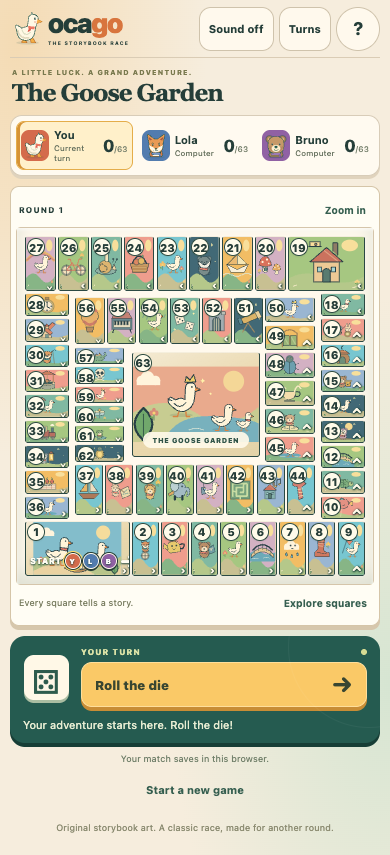
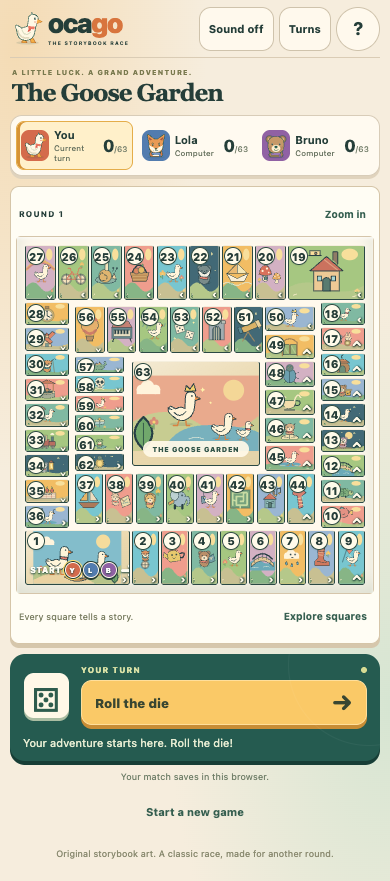
Give the four small mobile controls a 44x44px thumb target (#5)
At 320x740 and 360x800 the secondary controls shrank with the compact layout:
'?' 36x40, Zoom 51x32, Explore squares 91x32, Start a new game 122x36 — all under
the 44x44 minimum, so a thumb could miss and hit the board or a neighbouring action.

Raise the mobile min-heights to 44px in the existing <=650px and <=360px blocks of
src/style.css (the compact overrides were the cause; the base .text-button rule is
already 44px). Labels, hierarchy and the roll primary are unchanged: at 320x740 the
roll button stays fully visible at y=605-650 and the roll remains the largest target.

scripts/qa-browser.cjs now measures #help, #zoom, #legend and #restart at 320 and 360
and fails if any is under 44x44 or larger than the roll primary. Measured after the
fix: 44x44 / 51x44 / 91x44 / 122x44 at both widths.

Closes #5

diff --git a/src/style.css b/src/style.css
@@ -2,8 +2,8 @@
 *{box-sizing:border-box}body{margin:0;background:radial-gradient(ellipse at 4% 5%,#f4dbb4,transparent 36%),radial-gradient(ellipse at 100% 80%,#d6e5d2,transparent 40%),#f6eddd}button,input{font:inherit}button{cursor:pointer}button,a{-webkit-tap-highlight-color:transparent}button:focus-visible,a:focus-visible,input:focus-visible{outline:3px solid #d45b38;outline-offset:3px}button:disabled{cursor:default}h1,h2,p{margin-top:0}.topbar,main,footer{max-width:1130px;margin:auto}.topbar{height:82px;display:flex;align-items:center;justify-content:space-between;border-bottom:1px solid #daccb5}.brand{display:flex;align-items:center;gap:7px;text-decoration:none;color:var(--ink);font:850 33px/.9 ui-rounded,system-ui,sans-serif;letter-spacing:-1.5px}.brand img{width:47px;height:52px}.brand b{color:#d8753e}.brand small{display:block;font:750 6px/1.2 system-ui;letter-spacing:1.6px;margin-top:7px}.header-actions{display:flex;align-items:center;gap:9px}.utility-button,.icon-button{border:1px solid #cfc3ac;background:var(--cream);color:var(--ink);border-radius:12px;min-height:44px;padding:8px 13px;font-size:12px;font-weight:750}.icon-button{width:44px;border-radius:50%;padding:0;font-size:19px}.text-button{border:0;background:none;color:#365f50;font-size:12px;font-weight:750;min-height:44px;padding:9px 12px}.title-row{display:flex;justify-content:space-between;align-items:center;padding:23px 0 18px}.eyebrow{font-size:9px;font-weight:800;letter-spacing:1.7px;color:#79794e;margin-bottom:7px}h1{font-family:Georgia,'Times New Roman',serif;font-size:35px;font-weight:650;letter-spacing:-1px;margin:0}.local-label{font-size:12px;color:#6a7666}.players-card{border:1px solid #d8ccb8;background:#fffaf0;border-radius:16px;padding:9px;margin-bottom:18px;box-shadow:0 3px 0 #e0d3bd}#players{display:flex;gap:9px}.player{flex:1;min-width:0;display:flex;align-items:center;gap:10px;padding:9px 12px;border-radius:11px;border:1px solid transparent}.player.active{background:#fff0ca;border-color:#e4ad4a;box-shadow:inset 3px 0 #d69335}.avatar{display:grid;place-items:center;width:42px;height:42px;flex-shrink:0;border-radius:13px}.avatar img{width:100%;height:100%;object-fit:contain}.p0{background:#d46b4c}.p1{background:#527caf}.p2{background:#9061a4}.player-info{min-width:0;flex:1}.player-info strong{display:block;font-size:14px}.player-info small{display:block;font-size:10px;color:#66715e;margin-top:3px}.player>b{font-size:22px;font-weight:800;white-space:nowrap}.player>b small{font-size:10px;color:#77816d;font-weight:500}.game-layout{display:grid;grid-template-columns:minmax(0,1fr) 275px;gap:22px;align-items:start}.board-card{background:#fffdf4;border:1px solid #d5c5a8;border-radius:14px;padding:11px;box-shadow:0 6px 0 #d6c7ac,0 12px 30px #43341915}.board-top{display:flex;align-items:center;justify-content:space-between;gap:8px;padding:0 6px;font-size:9px;font-weight:800;letter-spacing:1px}.route-hint{color:#8a8269;font-size:8px;letter-spacing:.5px}.board-top .text-button{font-size:11px;padding:4px 5px}.board-viewport{overflow:auto;border-radius:5px;overscroll-behavior:contain;background:#fff9e9;scrollbar-color:#c9aa73 #f7ebd4}.board{width:100%;aspect-ratio:1;position:relative;isolation:isolate;background:#fff9ed;border:1px solid #d5c5aa}.board-viewport.zoomed .board{width:160%;max-width:none}.cell{position:absolute;cursor:pointer;border-radius:4px;overflow:hidden;border:1.6px solid #2b4944;background:#ead8ad;isolation:isolate}.tile-illustration{position:absolute;inset:0;pointer-events:none}.tile-illustration svg{width:100%;height:100%;display:block}.number{position:absolute;top:3px;left:3px;min-width:24px;height:24px;padding:1px 4px;display:grid;place-items:center;background:#fffbea;color:#263d38;border:1px solid #314e44;border-radius:50%;font-size:15px;font-weight:850;line-height:1;z-index:2;box-shadow:0 1px 2px #243f3626}.route-arrow{position:absolute;bottom:0;right:4px;font:800 16px/1 system-ui;color:#fff9e8;text-shadow:0 1px 2px #173b33,1px 0 2px #173b33;pointer-events:none;z-index:1}.cell:focus-visible{outline:4px solid #f9b63e;outline-offset:0;z-index:6}.cell.occupied{outline:2px solid #fff8dc;outline-offset:-3px}.tokens{position:absolute;bottom:3px;left:2px;right:2px;display:flex;justify-content:center;align-items:flex-end;gap:1px;z-index:5;pointer-events:none}.token{width:25px;height:25px;border-radius:50%;display:inline-grid;place-items:center;flex-shrink:0;border:2px solid #fff9eb;color:#fff;font-size:11px;font-weight:900;box-shadow:0 2px 0 #263e36,0 0 0 1px #263e36}.current-token{outline:2px solid #ffdb68;outline-offset:2px}.start-dock{position:absolute;bottom:5px;left:6px;right:5px;display:flex;align-items:center;gap:5px;color:#fffdf2;text-shadow:0 1px 2px #23493e;font-size:12px;font-weight:900;letter-spacing:1px;z-index:6}.start-arrow{margin-left:auto;font-size:25px}.start-cell .tokens{left:auto;right:3px;bottom:36px}.start-dock .token{width:23px;height:23px}#start-tokens{display:flex;gap:3px;min-height:23px}.finish-label{position:absolute;left:8%;right:8%;bottom:7%;border-radius:30px;background:#fff9e8ed;color:#315448;padding:7px 3px;text-align:center;font-size:10px;font-weight:900;letter-spacing:1px}.board-bottom{display:flex;align-items:center;justify-content:space-between;gap:6px;padding:0 6px;color:#7a7e62;font-size:10px}.board-bottom .text-button{font-size:11px}aside{display:flex;flex-direction:column;gap:12px}.turn-card{padding:22px;border-radius:20px;background:#255b50;color:#fff9e7;box-shadow:0 5px 0 #173e36;position:relative;overflow:hidden}.turn-card:before{content:'';position:absolute;width:160px;height:160px;right:-70px;top:-70px;border:1px solid #ffffff0c;border-radius:50%;pointer-events:none}.turn-top{display:flex;justify-content:space-between;align-items:center}.turn-top .eyebrow{color:#dce3a7;margin:0}.live-dot{width:6px;height:6px;border-radius:50%;background:#d6db93}.turn-card h2{font:500 26px/1.1 Georgia,serif;letter-spacing:-.5px;margin:15px 0}.dice-scene{display:flex;justify-content:center;padding:10px 0 22px}.dice{display:grid;place-items:center;width:78px;height:78px;border-radius:18px;background:#fff8e7;color:#2e5c4d;box-shadow:0 5px 0 #aabda2,0 9px 17px #12392d55;font:74px/1 system-ui}.roll{display:flex;align-items:center;justify-content:space-between;gap:10px;width:100%;min-height:48px;padding:13px 16px;border:1px solid #ffdf9b;border-radius:11px;background:#fac967;color:#394631;box-shadow:0 4px 0 #c88d35;font-size:14px;font-weight:850}.roll:hover:enabled{filter:brightness(1.05)}.roll:disabled{background:#afc0a4;border-color:#afc0a4;color:#31513f;box-shadow:0 4px 0 #7d977c}.roll span{font-size:23px;line-height:1}.status{font-size:12px;line-height:1.5;color:#e6ecd2;margin:18px 0 0;min-height:54px}.save-note{font-size:10px;text-align:center;color:#71806a;margin:3px 0 0}.restart{align-self:center}.how-to{padding:16px 8px;font-size:12px;line-height:1.6;color:#738169}.how-to strong{color:#536c51}.how-to p{margin:7px 0 0}footer{padding:28px 0;font-size:10px;color:#8c8c72;text-align:center}dialog{width:min(490px,calc(100% - 24px));max-height:90dvh;padding:30px;border:1px solid #d2c3a4;border-radius:22px;color:var(--ink);background:var(--cream);box-shadow:0 20px 100px #102e4480;overflow:auto}dialog::backdrop{background:#183b38c9;backdrop-filter:blur(6px)}dialog h2{font:600 30px/1.1 Georgia,serif;margin:11px 0 17px}dialog p,dialog dd{font-size:14px;line-height:1.7;color:#65725e}dialog dt{font-size:14px;font-weight:800;margin-top:18px}dialog dd{margin:5px 0}.rules-note{padding:13px;background:#e9edda;border-radius:11px}.close{float:right;margin:-15px -14px 0 0}.welcome{text-align:center}.welcome-art,.winner-art{height:155px;margin:0 0 16px}.welcome-art svg,.winner-art svg{height:100%;width:100%}.welcome-facts{display:flex;gap:12px;justify-content:center;font-size:11px;margin:22px 0}.welcome .roll{margin-top:18px}.welcome small{display:block;font-size:10px;color:#8b9177;margin-top:18px}#confirm{text-align:center}#confirm .text-button{margin-top:14px}.tile-preview{height:155px;width:100%;margin:7px 0 18px;border-radius:12px;overflow:hidden;background:#ead8b0}.tile-preview svg{width:100%;height:100%;display:block}.tile-navigation{display:flex;align-items:center;justify-content:space-between;gap:7px;margin-top:18px}.tile-navigation label{display:grid;gap:3px;font-size:12px;font-weight:700}.tile-navigation input{width:65px;min-height:44px;border:1px solid #bdbea5;border-radius:8px;text-align:center;font-size:19px;font-weight:750;color:var(--ink);background:white}.utility-button:disabled{opacity:.4}#turn-log{padding-left:22px;max-height:50vh;overflow:auto}#turn-log li{padding:9px 4px;border-bottom:1px solid #e3e4d2;font-size:14px;line-height:1.6}
 @media(max-width:1190px){.topbar,main,footer{margin-left:25px;margin-right:25px}.game-layout{grid-template-columns:minmax(0,1fr) 260px;gap:18px}}
 @media(max-width:850px){.game-layout{grid-template-columns:minmax(0,1fr) 220px;gap:12px}.turn-card{padding:17px}.turn-card h2{font-size:23px}.route-hint{display:none}.number{font-size:13px;width:21px;height:21px;min-width:21px}.start-dock{font-size:10px}.start-dock .token{width:20px;height:20px}.token{width:21px;height:21px;font-size:9px}.finish-label{font-size:8px;padding:5px 2px}.player{padding:7px}.avatar{width:34px;height:34px}.player-info strong{font-size:13px}.player>b{font-size:19px}.player-info small{font-size:9px}}
-@media(max-width:650px){.topbar,main,footer{margin-left:10px;margin-right:10px}.topbar{height:58px}.brand{font-size:27px;gap:3px}.brand img{width:35px;height:40px}.brand small{font-size:5px;letter-spacing:1px;margin-top:5px}.header-actions{gap:5px}.utility-button{padding:8px 9px;font-size:11px}.icon-button{font-size:18px}.title-row{padding:10px 2px 9px}.eyebrow{font-size:7px;letter-spacing:1px;margin-bottom:3px}h1{font-size:24px}.local-label{display:none}.players-card{padding:5px;margin-bottom:10px;border-radius:12px}#players{gap:4px}.player{padding:6px 4px;gap:5px;border-radius:8px}.avatar{width:28px;height:31px;border-radius:8px}.player-info strong{font-size:11px}.player-info small{font-size:8px;margin-top:2px}.player>b{font-size:17px}.player>b small{font-size:8px}.game-layout{display:flex;flex-direction:column;gap:10px}.board-card{width:100%;padding:5px;border-radius:9px;box-shadow:0 4px 0 #d6c7ac}.board-top{padding:0 3px;font-size:8px;min-height:35px}.board-top .text-button{min-height:35px;font-size:10px}.board{border-width:1px}.number{width:18px;min-width:18px;height:18px;top:1px;left:1px;padding:0;font-size:11px;border-width:1px}.cell{border-width:1px;border-radius:3px}.tokens{gap:0;bottom:2px;left:1px;right:1px}.token{width:17px;height:17px;font-size:8px;border-width:1.5px}.start-dock{font-size:8px;letter-spacing:.5px;bottom:3px;left:4px;gap:3px}.start-dock .token{width:16px;height:16px;font-size:7px}.start-arrow{font-size:18px}#start-tokens{gap:2px;min-height:16px}.start-cell .tokens{bottom:24px}.finish-label{font-size:7px;padding:4px 1px;letter-spacing:.5px}.route-arrow{font-size:11px;right:2px}.current-token{outline-width:1.5px;outline-offset:1px}.board-bottom{padding:0 3px;font-size:9px;min-height:35px}.board-bottom .text-button{min-height:35px;font-size:10px;padding:6px 4px}aside{width:100%;gap:7px}.turn-card{padding:11px 13px 10px;border-radius:15px;display:grid;grid-template-columns:46px 1fr;gap:0 12px;box-shadow:0 4px 0 #173e36}.turn-top{grid-column:2;grid-row:1;margin-bottom:5px}.turn-top .eyebrow{font-size:8px}.turn-card h2{display:none}.dice-scene{grid-column:1;grid-row:1/4;padding:0;align-self:center}.dice{width:45px;height:45px;border-radius:10px;font-size:43px;box-shadow:0 3px 0 #aabda2}.turn-card .roll{grid-column:2;min-height:45px;padding:10px 13px;font-size:13px}.status{grid-column:1/-1;font-size:11px;line-height:1.4;min-height:16px;margin:10px 0 0}.save-note{font-size:9px;margin-top:3px}.restart{font-size:11px;min-height:36px}.how-to{display:none}footer{font-size:9px;padding:15px 0 22px}dialog{padding:25px}dialog h2{font-size:27px}dialog p,dialog dd{font-size:13px}.welcome-art,.winner-art{height:130px}.tile-preview{height:160px}.welcome-facts{font-size:10px;gap:9px}.tile-navigation .utility-button{padding:8px 9px}}
-@media(max-width:360px){.topbar,main,footer{margin-left:7px;margin-right:7px}.brand{font-size:23px}.brand img{width:29px}.brand small{font-size:4.5px}.header-actions{gap:4px}.header-actions .utility-button{padding:6px 7px;font-size:10px}.header-actions .icon-button{width:36px;min-height:40px}.title-row{padding:8px 2px}.title-row .eyebrow{font-size:6px}h1{font-size:22px}.avatar{width:24px;height:27px}.player{gap:3px;padding:6px 2px}.player-info strong{font-size:10px}.player-info small{font-size:7px}.player>b{font-size:15px}.player>b small{font-size:7px}.number{font-size:10px;width:16px;min-width:16px;height:16px}.start-dock{font-size:7px;left:3px}.start-dock .token{width:14px;height:14px;font-size:7px}#start-tokens{gap:1px;min-height:14px}.token{width:15px;height:15px;font-size:7px}.finish-label{font-size:6px}.board-top{min-height:30px}.board-top .text-button,.board-bottom .text-button{min-height:32px}.board-bottom{min-height:32px;font-size:8px}.turn-card .status{font-size:10px}.tile-navigation{gap:5px}}
+@media(max-width:650px){.topbar,main,footer{margin-left:10px;margin-right:10px}.topbar{height:58px}.brand{font-size:27px;gap:3px}.brand img{width:35px;height:40px}.brand small{font-size:5px;letter-spacing:1px;margin-top:5px}.header-actions{gap:5px}.utility-button{padding:8px 9px;font-size:11px}.icon-button{font-size:18px}.title-row{padding:10px 2px 9px}.eyebrow{font-size:7px;letter-spacing:1px;margin-bottom:3px}h1{font-size:24px}.local-label{display:none}.players-card{padding:5px;margin-bottom:10px;border-radius:12px}#players{gap:4px}.player{padding:6px 4px;gap:5px;border-radius:8px}.avatar{width:28px;height:31px;border-radius:8px}.player-info strong{font-size:11px}.player-info small{font-size:8px;margin-top:2px}.player>b{font-size:17px}.player>b small{font-size:8px}.game-layout{display:flex;flex-direction:column;gap:10px}.board-card{width:100%;padding:5px;border-radius:9px;box-shadow:0 4px 0 #d6c7ac}.board-top{padding:0 3px;font-size:8px;min-height:35px}.board-top .text-button{min-height:44px;font-size:10px}.board{border-width:1px}.number{width:18px;min-width:18px;height:18px;top:1px;left:1px;padding:0;font-size:11px;border-width:1px}.cell{border-width:1px;border-radius:3px}.tokens{gap:0;bottom:2px;left:1px;right:1px}.token{width:17px;height:17px;font-size:8px;border-width:1.5px}.start-dock{font-size:8px;letter-spacing:.5px;bottom:3px;left:4px;gap:3px}.start-dock .token{width:16px;height:16px;font-size:7px}.start-arrow{font-size:18px}#start-tokens{gap:2px;min-height:16px}.start-cell .tokens{bottom:24px}.finish-label{font-size:7px;padding:4px 1px;letter-spacing:.5px}.route-arrow{font-size:11px;right:2px}.current-token{outline-width:1.5px;outline-offset:1px}.board-bottom{padding:0 3px;font-size:9px;min-height:35px}.board-bottom .text-button{min-height:44px;font-size:10px;padding:6px 4px}aside{width:100%;gap:7px}.turn-card{padding:11px 13px 10px;border-radius:15px;display:grid;grid-template-columns:46px 1fr;gap:0 12px;box-shadow:0 4px 0 #173e36}.turn-top{grid-column:2;grid-row:1;margin-bottom:5px}.turn-top .eyebrow{font-size:8px}.turn-card h2{display:none}.dice-scene{grid-column:1;grid-row:1/4;padding:0;align-self:center}.dice{width:45px;height:45px;border-radius:10px;font-size:43px;box-shadow:0 3px 0 #aabda2}.turn-card .roll{grid-column:2;min-height:45px;padding:10px 13px;font-size:13px}.status{grid-column:1/-1;font-size:11px;line-height:1.4;min-height:16px;margin:10px 0 0}.save-note{font-size:9px;margin-top:3px}.restart{font-size:11px;min-height:44px}.how-to{display:none}footer{font-size:9px;padding:15px 0 22px}dialog{padding:25px}dialog h2{font-size:27px}dialog p,dialog dd{font-size:13px}.welcome-art,.winner-art{height:130px}.tile-preview{height:160px}.welcome-facts{font-size:10px;gap:9px}.tile-navigation .utility-button{padding:8px 9px}}
+@media(max-width:360px){.topbar,main,footer{margin-left:7px;margin-right:7px}.brand{font-size:23px}.brand img{width:29px}.brand small{font-size:4.5px}.header-actions{gap:4px}.header-actions .utility-button{padding:6px 7px;font-size:10px}.header-actions .icon-button{width:44px;min-height:44px}.title-row{padding:8px 2px}.title-row .eyebrow{font-size:6px}h1{font-size:22px}.avatar{width:24px;height:27px}.player{gap:3px;padding:6px 2px}.player-info strong{font-size:10px}.player-info small{font-size:7px}.player>b{font-size:15px}.player>b small{font-size:7px}.number{font-size:10px;width:16px;min-width:16px;height:16px}.start-dock{font-size:7px;left:3px}.start-dock .token{width:14px;height:14px;font-size:7px}#start-tokens{gap:1px;min-height:14px}.token{width:15px;height:15px;font-size:7px}.finish-label{font-size:6px}.board-top{min-height:30px}.board-top .text-button,.board-bottom .text-button{min-height:44px}.board-bottom{min-height:32px;font-size:8px}.turn-card .status{font-size:10px}.tile-navigation{gap:5px}}
 @media(prefers-reduced-motion:reduce){*,*::before,*::after{animation:none!important;transition:none!important}}
 /* Fit the full printed board on common desktop heights; zoom remains opt-in. */
 @media(min-width:651px){.game-layout{max-width:min(100%,max(760px,calc(100dvh - 55px)));margin-inline:auto}.players-card{position:sticky;top:8px;z-index:15}.topbar{height:72px}.title-row{padding-top:14px;padding-bottom:13px}.title-row h1{font-size:32px}.board-viewport.zoomed{max-height:70dvh}}
